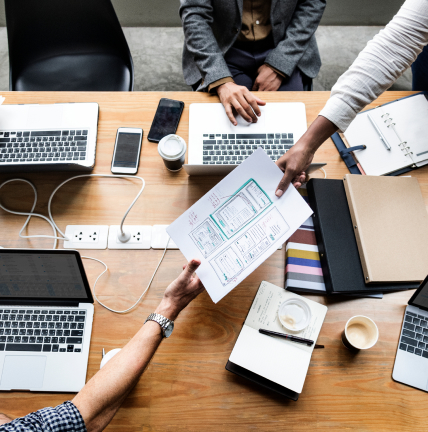
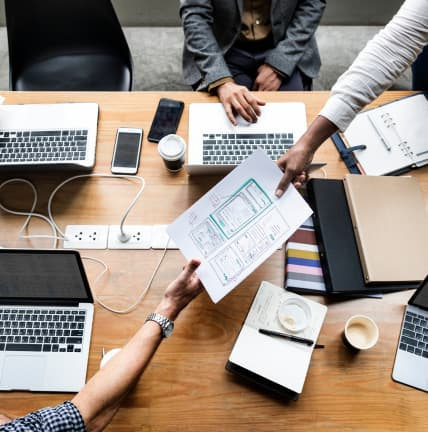
The image is adapted

diff --git a/index.html b/index.html
@@ -204,6 +204,10 @@
           <ul class="product-list list">
             <li class="product-item">
               <img
+                srcset="
+                  ./image/product/product1.jpg    1x,
+                  ./image/product/product1-2x.jpg 2x
+                "
                 src="./image/product/product1.jpg"
                 alt="product"
                 width="360"
@@ -213,6 +217,10 @@
             </li>
             <li class="product-item">
               <img
+                srcset="
+                  ./image/product/product2.jpg    1x,
+                  ./image/product/product2-2x.jpg 2x
+                "
                 src="./image/product/product2.jpg"
                 alt="product"
                 width="360"
@@ -222,6 +230,10 @@
             </li>
             <li class="product-item">
               <img
+                srcset="
+                  ./image/product/product3.jpg    1x,
+                  ./image/product/product3-2x.jpg 2x
+                "
                 src="./image/product/product3.jpg"
                 alt="product"
                 width="360"
@@ -238,6 +250,10 @@
           <ul class="team-list list">
             <li class="team-item">
               <img
+                srcset="
+                  ./image/team/Mark-Guerrero.jpg    1x,
+                  ./image/team/Mark-Guerrero-2x.jpg 2x
+                "
                 src="./image/team/Mark-Guerrero.jpg"
                 alt="team member"
                 width="264"
@@ -281,6 +297,10 @@
             </li>
             <li class="team-item">
               <img
+                srcset="
+                  ./image/team/Tom-Ford.jpg        1x,
+                  ./image/team/Tom-Ford-2x.jpg 2x
+                "
                 src="./image/team/Tom-Ford.jpg"
                 alt="team member"
                 width="264"
@@ -324,6 +344,10 @@
             </li>
             <li class="team-item">
               <img
+                srcset="
+                  ./image/team/Camila-Garcia.jpg    1x,
+                  ./image/team/Camila-Garcia-2x.jpg 2x
+                "
                 src="./image/team/Camila-Garcia.jpg"
                 alt="team member"
                 width="264"
@@ -367,6 +391,10 @@
             </li>
             <li class="team-item">
               <img
+                srcset="
+                  ./image/team/Daniel-Wilson.jpg    1x,
+                  ./image/team/Daniel-Wilson-2x.jpg 2x
+                "
                 src="./image/team/Daniel-Wilson.jpg"
                 alt="team member"
                 width="264"

diff --git a/css/desktop.css b/css/desktop.css
@@ -33,17 +33,25 @@
   /*-------- heading --------*/
 
   .heading {
-    background: var(--background-blue);
     background-image: linear-gradient(
         rgba(46, 47, 66, 0.7),
         rgba(46, 47, 66, 0.7)
       ),
       url(../image/background-image/people-office.jpg);
-    background-repeat: no-repeat;
-    background-position: center;
-    background-size: cover;
-    text-align: center;
   }
+
+    @media (min-device-pixel-ratio: 2),
+    (min-resolution: 192dpi),
+    (min-resolution: 2dppx) {
+    .heading {
+      background-image: linear-gradient(
+          rgba(46, 47, 66, 0.7),
+          rgba(46, 47, 66, 0.7)
+        ),
+        url(../image/background-image/people-office-2x.jpg);
+    }
+  }
+
 
   .heading.section {
     padding-top: 188px;
@@ -147,6 +155,11 @@
   }
 
   /*-------- customers --------*/
+
+  .customers.section {
+    padding-top: 120px;
+    padding-bottom: 120px;
+  }
 
   .customers > .conteiner {
     width: 1158px;

diff --git a/css/tablet.css b/css/tablet.css
@@ -8,7 +8,7 @@
   .menu-open {
     display: none;
   }
-  
+
   .mob-menu {
     display: none;
   }
@@ -101,16 +101,23 @@
   /*-------- heading --------*/
 
   .heading {
-    background: var(--background-blue);
     background-image: linear-gradient(
         rgba(46, 47, 66, 0.7),
         rgba(46, 47, 66, 0.7)
       ),
       url(../image/background-image/people-office-tablet.jpg);
-    background-repeat: no-repeat;
-    background-position: center;
-    background-size: cover;
-    text-align: center;
+  }
+
+  @media (min-device-pixel-ratio: 2),
+    (min-resolution: 192dpi),
+    (min-resolution: 2dppx) {
+    .heading {
+      background-image: linear-gradient(
+          rgba(46, 47, 66, 0.7),
+          rgba(46, 47, 66, 0.7)
+        ),
+        url(../image/background-image/people-office-tablet-2x.jpg);
+    }
   }
 
   .heading-title {

diff --git a/css/style.css b/css/style.css
@@ -78,6 +78,10 @@ img {
   overflow: hidden;
 }
 
+.no-scroll {
+  overflow: hidden;
+}
+
 /*----------  studio page ----------*/
 
 /*----------  header ----------*/
@@ -270,6 +274,18 @@ img {
   background-position: center;
   background-size: cover;
   text-align: center;
+}
+
+@media (min-device-pixel-ratio: 2),
+  (min-resolution: 192dpi),
+  (min-resolution: 2dppx) {
+  .heading {
+    background-image: linear-gradient(
+        rgba(46, 47, 66, 0.7),
+        rgba(46, 47, 66, 0.7)
+      ),
+      url(../image/background-image/people-office-mobile-2x.jpg);
+  }
 }
 
 .heading.section {

diff --git a/js/mob-meny.js b/js/mob-meny.js
@@ -3,6 +3,7 @@
     openMenuBtn: document.querySelector("[data-menu-open]"),
     closeMenuBtn: document.querySelector("[data-menu-close]"),
     menu: document.querySelector("[data-menu]"),
+    body: document.querySelector("body"),
   };
 
   refs.openMenuBtn.addEventListener("click", toggleMenu);
@@ -10,5 +11,6 @@
 
   function toggleMenu() {
     refs.menu.classList.toggle("is-hidden");
+    refs.body.classList.toggle("no-scroll");
   }
 })();
